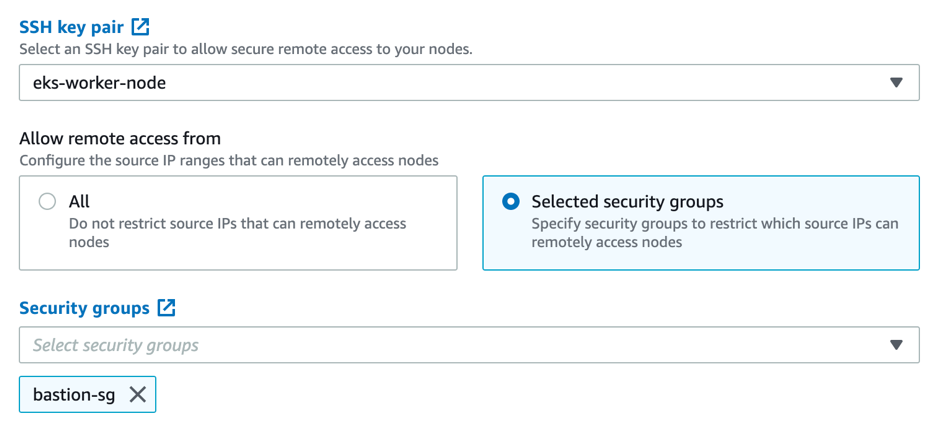
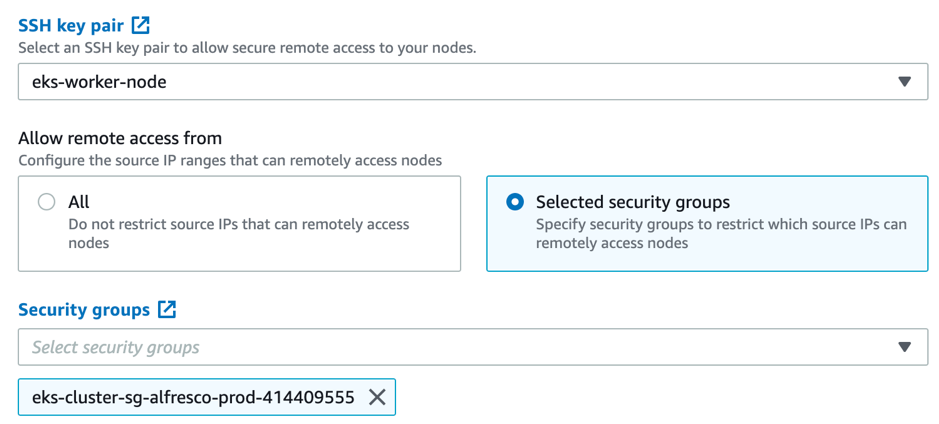
edit docs 20200130

Changed region(s): [[0.0, 0.3066, 0.9883, 0.6439], [0.0, 0.6745, 0.9883, 0.9811], [0.0, 0.0307, 0.9883, 0.2453]]

diff --git a/README.md b/README.md
@@ -1,13 +1,13 @@
 # Setup Alfresco Content Services (ACS) v6.2 on AWS EKS
 
 ## Overview
-Alfresco Content Services (ACS) is the Enterprise Content Management module of Alfresco Digital Business Platform, which is running on a set of containerized applications on Kubernetes. This document explains how to setup a Kubernetes cluster on AWS's managed Kubernetes platform: EKS, with step by step guides to setup ACS on EKS cluster, using tool like eksctl, kubectl and helm.
+Alfresco Content Services (ACS) is the Enterprise Content Management module of Alfresco Digital Business Platform, which is running on a set of containerized applications on Kubernetes. This document explains how to setup a Kubernetes cluster on AWS's managed Kubernetes platform: EKS, with step by step guides to setup ACS 6.2 on EKS cluster, using tool like eksctl, kubectl and helm.
 
 ## Prerequisites
 1. The setup is based on AWS's Hong Kong region.
-2. Please request AWS account user's access key ID and secret from account admin, they are required for authentication in AWS command line tool (CLI)
+2. Please request AWS account user's access key ID and secret from account admin, they are required for authentication in AWS command line tool (CLI), admin can goto AWS Console -> IAM -> Users -> Security Credentials -> Access Key to create access key.
 3. Please request Quay.io credentials by logging a ticket in Alfresco support center, which is required to pull ACS docker images from Quay.io repository.
-4. Please discuss with your AWS account's admin to decide and setup the CIDR range of the VPC and subnets that the EKS cluster will sit, it is suggested to create one subnet for each AZ in the region, i.e. 3 subnets.
+4. Please discuss with your AWS account's admin to decide and setup the CIDR range of the VPC and subnets that the EKS cluster will sit, it is suggested to create one subnet per each AZ in the region.
 5. Ensure "DNS resolution"  and "DNS hostnames" are enabled in the VPC, and the subnets' route table has a 0.0.0.0/0 route to internet gateway, i,e, they are public subnets.
 6. Create IAM role "eks-control-role", which will be assumed by the EKS cluster:
    - Goto IAM in AWS console, select service: EKS and click “EKS” in use case and click “Next”: ![](https://raw.githubusercontent.com/peterone928/alfresco-eks/master/images/eks-control-role.png)
@@ -18,49 +18,51 @@ Alfresco Content Services (ACS) is the Enterprise Content Management module of A
      - AmazonEKSWorkerNodePolicy
      - AmazonEKS_CNI_Policy
      - AmazonEC2ContainerRegistryReadOnly
+     - AmazonS3FullAccess
    - At the final step give the role a name “NodeInstanceRole” and create role: ![](https://raw.githubusercontent.com/peterone928/alfresco-eks/master/images/nodeinstancerole2.png)
 
 8. Create EC2 key pair for the EKS worker node:
    - Goto EC2 in AWS console, click “key pair” at the left menu: ![](https://raw.githubusercontent.com/peterone928/alfresco-eks/master/images/ec2keypair.png)
    - Input the name and create key pair: ![](https://raw.githubusercontent.com/peterone928/alfresco-eks/master/images/ec2keypair2.png)
 
-
-## Bastion Host Setup
-A Bastion Host (an EC2 instance) is setup in a public subnet of the EKS cluster's VPC, so that user from external networks can remote SSH to it and manage the EKS cluster using command line tool like eksctl, kubectl and helm.
-
-1. Goto EC2 dashboard, click “launch instance”
-2. Search “ami-03a9535798e343119”, this is a Linux AMI for a Bastion Host:![](https://raw.githubusercontent.com/peterone928/alfresco-eks/master/images/bastion2.png)
-3. Select instance type , t3.micro should be fine:![](https://raw.githubusercontent.com/peterone928/alfresco-eks/master/images/bastion3.png)
-4. Ensure a public subnet is selected:![](https://raw.githubusercontent.com/peterone928/alfresco-eks/master/images/bastion4.png)
-5. Add 30GB storage:![](https://raw.githubusercontent.com/peterone928/alfresco-eks/master/images/bastion5.png)
-6. Set security group, to allow SSH inbound traffic from internet:![](https://raw.githubusercontent.com/peterone928/alfresco-eks/master/images/bastion6.png)
-7. Create a key-pair and launch the instance:![](https://raw.githubusercontent.com/peterone928/alfresco-eks/master/images/bastion7.png)
-8. Check if the instance start successfully:![](https://raw.githubusercontent.com/peterone928/alfresco-eks/master/images/bastion8.png)
-9. Click actions -> networking -> change security groups, add the instance to the EKS worker node security group as well.
-10. Click the instance and click connect, follow the instruction there to SSH to the EC2 instance.
-11. If fail to connect pls check the subnet’s route table if there is a route to internet gateway, also check if the EC2 has a public DNS name and IP.
-
-
 ## Amazon EKS Cluster Setup
 1. Goto “EKS” in AWS console, ensure selected region is Hong Kong: ![](https://raw.githubusercontent.com/peterone928/alfresco-eks/master/images/eks1.png)
-2. Input the followings:![](https://raw.githubusercontent.com/peterone928/alfresco-eks/master/images/eks2.png)
-3. Select the pre-defined VPC and subnets for the EKS cluster:![](https://raw.githubusercontent.com/peterone928/alfresco-eks/master/images/eks3.png)
+2. Input the cluster name, Kubernetes version and service role:![](https://raw.githubusercontent.com/peterone928/alfresco-eks/master/images/eks2.png)
+3. Select the VPC and subnets for the EKS cluster:![](https://raw.githubusercontent.com/peterone928/alfresco-eks/master/images/eks3.png)
 4. Set the cluster security group, pick the default is fine:![](https://raw.githubusercontent.com/peterone928/alfresco-eks/master/images/eks4.png)
 5. Allow private access to API server endpoint only:![](https://raw.githubusercontent.com/peterone928/alfresco-eks/master/images/eks5.png)
 6. Set the below logging options and create the cluster:![](https://raw.githubusercontent.com/peterone928/alfresco-eks/master/images/eks6.png)
 7. Wait for successful creation of cluster, which means cluster status = “active”:![](https://raw.githubusercontent.com/peterone928/alfresco-eks/master/images/eks7.png)
 8. Scroll down to “Node Groups” and click “Add node group”:![](https://raw.githubusercontent.com/peterone928/alfresco-eks/master/images/eks8.png)
-9. Set node group configuration, ensure multiple subnets are selected:![](https://raw.githubusercontent.com/peterone928/alfresco-eks/master/images/eks9.png)
-10. Input SSH key pair for EKS worker nodes and add the security group of Bastion Host to access the worker nodes:![](https://raw.githubusercontent.com/peterone928/alfresco-eks/master/images/eks10.png)
+9. Set node group configuration, ensure all subnets are selected:![](https://raw.githubusercontent.com/peterone928/alfresco-eks/master/images/eks9.png)
+10. Input SSH key pair for EKS worker nodes and allow only the EKS cluster's security group for remote access:![](https://raw.githubusercontent.com/peterone928/alfresco-eks/master/images/eks10.png)
 11. Set worker node compute configuration:![](https://raw.githubusercontent.com/peterone928/alfresco-eks/master/images/eks11.png)
 12.	Set scaling configuration:![](https://raw.githubusercontent.com/peterone928/alfresco-eks/master/images/eks12.png)
 13. Final step is review the group configuration and create, wait for the node group status become “active”:![](https://raw.githubusercontent.com/peterone928/alfresco-eks/master/images/eks13.png)
 14. Goto EC2 dashboard, there should be 3 EC2 instances running:![](https://raw.githubusercontent.com/peterone928/alfresco-eks/master/images/eks14.png)
-15. Now the EKS cluster setup is completed.
+
+## Bastion Host Setup
+A Bastion host (an EC2 instance) is setup in a public subnet of the EKS cluster's VPC, so that user from external networks can SSH to it and manage the EKS cluster using command line tool like eksctl, kubectl and helm.
+
+1. Goto EC2 dashboard, click “launch instance”
+2. Search “ami-03a9535798e343119”, this is a Linux AMI for a Bastion Host in HK region:![](https://raw.githubusercontent.com/peterone928/alfresco-eks/master/images/bastion2.png)
+3. Select instance type, t3.micro should be fine:![](https://raw.githubusercontent.com/peterone928/alfresco-eks/master/images/bastion3.png)
+4. Ensure a public subnet is selected:![](https://raw.githubusercontent.com/peterone928/alfresco-eks/master/images/bastion4.png)
+5. Add 30GB storage:![](https://raw.githubusercontent.com/peterone928/alfresco-eks/master/images/bastion5.png)
+6. Set security group, to allow SSH inbound traffic from internet:![](https://raw.githubusercontent.com/peterone928/alfresco-eks/master/images/bastion6.png)
+7. Create a key-pair and launch the instance:![](https://raw.githubusercontent.com/peterone928/alfresco-eks/master/images/bastion7.png)
+8. Check if the instance start successfully:![](https://raw.githubusercontent.com/peterone928/alfresco-eks/master/images/bastion8.png)
+9. Click actions -> networking -> change security groups, add the EKS cluster's security group.
+10. Click the instance and click connect, follow the instruction to SSH to the Bastion host.
+11. If fail to connect pls check the subnet’s route table if there is a route to internet gateway, also check if the instance has a public DNS name and IP.
+12. SSH to the instance, install the PostgesSQL client by
+```bash
+yum install postgresql-devel
+```
 
 ## Setup AWS CLI, eksctl, kubectl and helm
-1. The following steps are done in the Bastion Host instance.
-2. Run the below command to install and upgrade AWS Command Line Tool (CLI)
+1. The following steps are done in the Bastion host.
+2. Run the below command to install / upgrade AWS Command Line Tool (CLI)
 ```bash
 pip install awscli –upgrade –user
 ```
@@ -84,9 +86,9 @@ sudo mv /tmp/eksctl /usr/local/bin
 eksctl version
 ```
 7. Follow the below guide to setup kubectl, for Linux and Kubernetes 1.14: https://docs.aws.amazon.com/eks/latest/userguide/install-kubectl.html
-8. To setup authentication between kubectl and the EKS cluster, use the AWS CLI update-kubeconfig command to create kubeconfig for your cluster, please replace **alfresco-prod** with your EKS cluster name:
+8. To setup authentication between kubectl and the EKS cluster, use the AWS CLI update-kubeconfig command to create kubeconfig for your cluster, please replace **acs** with your EKS cluster name:
 ```bash
-aws eks –region ap-east-1 update-kubeconfig –name alfresco-prod
+aws eks –region ap-east-1 update-kubeconfig –name acs
 ```
 9. Test your configuration:
 ```bash
@@ -102,19 +104,31 @@ EFS is mainly used to store the full text indexes of documents stored in Alfresc
 4. Click Actions -> Manage network access, add the EKS cluster security group to all mount targets: ![](https://raw.githubusercontent.com/peterone928/alfresco-eks/master/images/efs4.png)
 
 ## Amazon Aurora (PostgreSQL) Setup
-The Aurora database is used used to store meta-data of the documents in Alfresco content services.
+The Aurora database is used to store meta-data of the documents in Alfresco content services.
 1. Goto RDS in AWS console, click “create database” and choose engine type = “Aurora”:![](https://raw.githubusercontent.com/peterone928/alfresco-eks/master/images/rds2.png)
 2. Choose Amazon Aurora with PostgreSQL compatibility:![](https://raw.githubusercontent.com/peterone928/alfresco-eks/master/images/rds3.png)
-3. Input DB cluster name, master username and password, ensure you remember all of these:![](https://raw.githubusercontent.com/peterone928/alfresco-eks/master/images/rds4.png)
+3. Input DB cluster name, db username and password:![](https://raw.githubusercontent.com/peterone928/alfresco-eks/master/images/rds4.png)
 4. Choose the instance type:![](https://raw.githubusercontent.com/peterone928/alfresco-eks/master/images/rds5.png)
 5. No need to create Aurora Replica:![](https://raw.githubusercontent.com/peterone928/alfresco-eks/master/images/rds6.png)
 6. Select the VPC of EKS cluster:![](https://raw.githubusercontent.com/peterone928/alfresco-eks/master/images/rds7.png)
 7. Ensure security group of EKS cluster is added and create the database: ![](https://raw.githubusercontent.com/peterone928/alfresco-eks/master/images/rds7b.png)
 8. Wait for Aurora database cluster to create successfully:![](https://raw.githubusercontent.com/peterone928/alfresco-eks/master/images/rds8.png)
 9. Click the database cluster name and you can see the "write" database endpoint at the bottom: ![](https://raw.githubusercontent.com/peterone928/alfresco-eks/master/images/rds9.png)
+10. Login to the Bastion host and execute the following command to create a default database:
+```
+createdb -h <Aurora db cluster endpoint> -p 5432 -U <db username> <db username>
+```
+11. Connect to the Aurora's Postgres database by:
+```
+psql -h <Aurora db cluster endpoint> -p 5432 -U <db username> <db username>
+```
+12. If login successful, that means database setup successfully! and can quit the console by:
+```
+\q
+```
 
 ## AWS Certificate Manager Setup
-Data in transit between end user and alfresco system is protected by HTTPS, therefore a SSL/TLS certificate for the application domain is required.
+Data in transit between end user and alfresco digital platform is protected by HTTPS, therefore a SSL/TLS certificate for the application domain is required.
 1. Go to ACM in AWS console, choose provision a SSL/TLS certificate, and request a public certificate or import an existing one.
 2. After the certificate is issued/imported, drop down the ARN:![](https://raw.githubusercontent.com/peterone928/alfresco-eks/master/images/acm3.png)
  
@@ -268,24 +282,23 @@ export ALF_DB_USER="alfresco"
 # Alfresco RDS database password
 export ALF_DB_PWD="alfrescopoc"
 
-# Install ACS on EKS cluster with external database point to RDS Aurora (PostgreSQL)
+# Install ACS on EKS cluster with S3 connector
 helm install alfresco-incubator/alfresco-content-services \
 --set externalProtocol="https" \
 --set externalHost="$EXTERNALHOST" \
 --set externalPort="443" \
 --set repository.adminPassword="$ALF_ADMIN_PWD" \
---set alfresco-infrastructure.persistence.efs.enabled=true \
---set alfresco-infrastructure.persistence.efs.dns="$EFS_SERVER" \
+--set alfresco-infrastructure.persistence.storageClass.enabled=true \
+--set alfresco-infrastructure.persistence.storageClass.name="nfs-client" \
+--set alfresco-infrastructure.alfresco-infrastructure.nginx-ingress.enabled=false \
 --set alfresco-search.resources.requests.memory="2500Mi",alfresco-search.resources.limits.memory="2500Mi" \
 --set alfresco-search.environment.SOLR_JAVA_MEM="-Xms2000M -Xmx2000M" \
---set persistence.repository.data.subPath="$DESIREDNAMESPACE/alfresco-content-services/repository-data" \
+--set postgresql.postgresPassword="$ALF_DB_PWD" \
 --set persistence.solr.data.subPath="$DESIREDNAMESPACE/alfresco-content-services/solr-data" \
---set postgresql.enabled=false \
---set database.external=true \
---set database.driver="org.postgresql.Driver" \
---set database.user="$ALF_DB_USER" \
---set database.password="$ALF_DB_PWD" \
---set database.url="jdbc:postgresql://$ALF_DB_URL" \
+--set persistence.repository.enabled=false \
+--set s3connector.enabled=true \
+--set s3connector.config.bucketName=hkt-alfresco-poc \
+--set s3connector.secrets.encryption=kms \
 --set global.alfrescoRegistryPullSecrets=quay-registry-secret \
 --namespace=$DESIREDNAMESPACE
 ```
@@ -298,13 +311,12 @@ You can access all components of Alfresco Content Services Community using the s
   Api-Explorer: https://myacs.exmaple.com:443/api-explorer
   Sync service: https://myacs.exmaple.com:443/syncservice/healthcheck 
 ```
-15. Check the installation status by following command:
+15. Check the installation status by following command, replace **acs** with your EKS cluster name
 ```
 kubectl get pods --namespace acs
 ```
 Keep checking until all pods' status changed to `Running`
-
-
+16. Go to the external host site, for example: https://myacs.myexample.com/share, the Alfresco content services site should be up and running.
 
 
 
